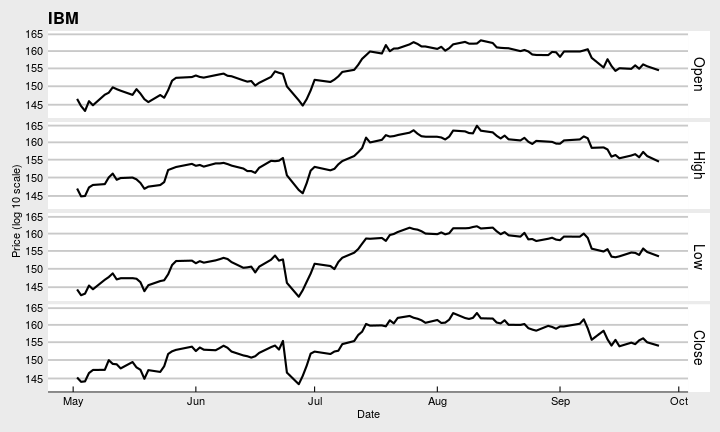
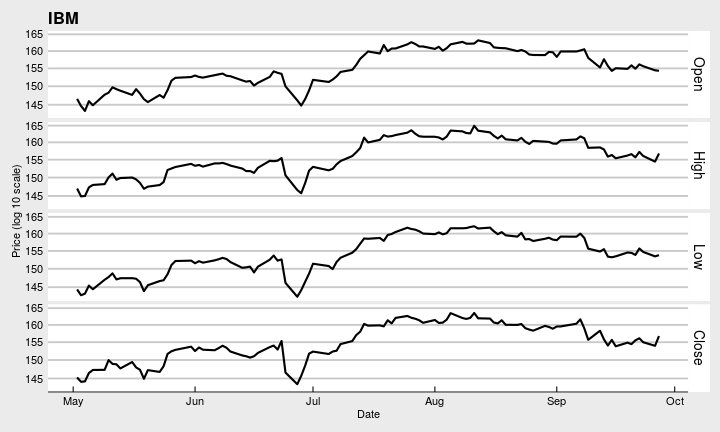
Add images

diff --git a/_posts/2016-09-24-date-wrangling-with-dplyr-and-lubridate.md b/_posts/2016-09-24-date-wrangling-with-dplyr-and-lubridate.md
@@ -4,6 +4,11 @@ title: "Date Wrangling with dplyr and lubridate"
 subtitle: "Converting data.frames to different periods"
 categories: [Solutions]
 tags: [dplyr, lubridate]
+images:
+  - url: /img/posts/table.png
+    alt: Table
+    title: Date Wrangling with dplyr and lubridate
+
 ---
 
 When I'm working with financial time series data, I usually use [xts](http://joshuaulrich.github.io/xts/index.html) objects. I convert the data to a data.frame when I'm ready to plot. Sometimes, I find that I want to adjust the periodicity after I've converted the data to a data.frame and dplyr doesn't have a built in To*Period* function to handle this.
@@ -38,17 +43,17 @@ df %>%
 
 |dt         |         x|         y|         z|
 |:----------|---------:|---------:|---------:|
-|2016-09-30 | 0.0299440| 0.6439789| 0.3108384|
-|2016-10-31 | 0.2269566| 0.5629620| 0.7917520|
-|2016-11-30 | 0.9729924| 0.4588632| 0.4912884|
-|2016-12-31 | 0.1555810| 0.8060579| 0.1892529|
-|2017-01-31 | 0.1473523| 0.0524211| 0.3973115|
-|2017-02-28 | 0.6285712| 0.8631682| 0.7659302|
-|2017-03-31 | 0.0888469| 0.3566318| 0.2459911|
-|2017-04-30 | 0.4924333| 0.3324867| 0.4030350|
-|2017-05-31 | 0.2353066| 0.0338763| 0.5916135|
-|2017-06-30 | 0.8295749| 0.2122948| 0.3502610|
-|2017-07-25 | 0.8999987| 0.3771964| 0.9212028|
+|2016-09-30 | 0.6235581| 0.0192084| 0.9054662|
+|2016-10-31 | 0.9900438| 0.7212066| 0.7177374|
+|2016-11-30 | 0.9845059| 0.4534585| 0.8473448|
+|2016-12-31 | 0.6883763| 0.4490188| 0.1127804|
+|2017-01-31 | 0.0894068| 0.8465638| 0.9787785|
+|2017-02-28 | 0.4509873| 0.8547688| 0.8890504|
+|2017-03-31 | 0.8294377| 0.2704783| 0.9640463|
+|2017-04-30 | 0.3138421| 0.3377105| 0.3576164|
+|2017-05-31 | 0.0488519| 0.9487442| 0.5588787|
+|2017-06-30 | 0.9885419| 0.5312143| 0.3603679|
+|2017-07-25 | 0.4951064| 0.4677851| 0.8758753|
 
 This is a very simple method to create periodicity transformation using dplyr and lubridate. The first function creates a new column that distinctly identifies each month/year that each record belongs to using **ceiling_date**. This could be any interval of time from second to hours to quarters, to years. I can also prefix the unit with an integer to create custom intervals ("5 days").
 
@@ -96,11 +101,11 @@ df %>%
 
 |dt         |         x|         y|         z|
 |:----------|---------:|---------:|---------:|
-|2016-09-30 | 0.0299440| 0.6439789| 0.3108384|
-|2016-12-31 | 0.1555810| 0.8060579| 0.1892529|
-|2017-03-31 | 0.0888469| 0.3566318| 0.2459911|
-|2017-06-30 | 0.8295749| 0.2122948| 0.3502610|
-|2017-07-25 | 0.8999987| 0.3771964| 0.9212028|
+|2016-09-30 | 0.6235581| 0.0192084| 0.9054662|
+|2016-12-31 | 0.6883763| 0.4490188| 0.1127804|
+|2017-03-31 | 0.8294377| 0.2704783| 0.9640463|
+|2017-06-30 | 0.9885419| 0.5312143| 0.3603679|
+|2017-07-25 | 0.4951064| 0.4677851| 0.8758753|
 
 This function is obviously more complicated than the script above, but the **field** parameter adds some challenges. I want my data wrangling functions to follow the dplyr convention of passing expressions as field names. This keeps everything consistent. I use the **deparse** function to convert the expression to a string so that I can access the data. I could use lazyeval for this (which is how dplyr works) but it creates many more complications and unatractive code. There are limitations to deparse but they do not impact this function (see [https://cran.r-project.org/web/packages/lazyeval/vignettes/lazyeval.html]).
 

diff --git a/_posts/2016-09-15-its-time.md b/_posts/2016-09-15-its-time.md
@@ -4,6 +4,10 @@ title: "It's Time!"
 subtitle: ...to ggplot some xts objects.
 categories: [Solutions]
 tags: [xts, ggplot2]
+images:
+  - url: /img/posts/price-chart.png
+    alt: IBM Price Chart
+    title: It's Time!
 ---
  
 
@@ -56,7 +60,7 @@ tail(x.ibm_price_hist_monthly)
 ## 2016-06-30 151.78
 ## 2016-07-29 160.62
 ## 2016-08-31 158.88
-## 2016-09-26 153.98
+## 2016-09-27 156.77
 {% endhighlight %}
 
 To use ggplot with this data, we need to convert it back to a data.frame. This is a fairly simple process, but again, we don't want to continually do it so create a function.
@@ -84,7 +88,7 @@ tail(df.ibm_price_history_monthly)
 ## 138 2016-06-30 151.78
 ## 139 2016-07-29 160.62
 ## 140 2016-08-31 158.88
-## 141 2016-09-26 153.98
+## 141 2016-09-27 156.77
 {% endhighlight %}
 
 
@@ -148,7 +152,7 @@ tail(x.ibm_ohlc_hist_monthly)
 ## 2016-06-30    152.51    155.35   143.50     151.78
 ## 2016-07-29    152.35    162.65   151.68     160.62
 ## 2016-08-31    161.45    163.53   158.32     158.88
-## 2016-09-26    159.54    161.64   153.84     153.98
+## 2016-09-27    159.54    161.64   153.84     156.77
 {% endhighlight %}
 
 
@@ -162,10 +166,10 @@ df.ibm_ohlc_hist_monthly$Direction = ifelse(df.ibm_ohlc_hist_monthly$Data.Close 
 ggplot(df.ibm_ohlc_hist_monthly) +
   geom_linerange(aes(x=Date, ymin=Data.Low, ymax=Data.High), size=.5) +
   geom_rect(aes(xmin = Date - 10, xmax = Date + 10, ymin = Data.Open, ymax = Data.Close, fill=Direction)) + 
-  ggtitle("IBM") + 
+  ggtitle("IBM Price Chart") + 
   ylab("Price (log 10 scale)") +
   scale_y_log10(breaks=pretty(df.ibm_ohlc_hist_monthly$Data.Close)) +
-  theme_economist_white() +
+  theme_economist() +
   theme(legend.position = "none")
 {% endhighlight %}
 

diff --git a/_posts/2016-09-26-i-hate-you-paste.md b/_posts/2016-09-26-i-hate-you-paste.md
@@ -1,13 +1,20 @@
 ---
 layout: post
-title: "I Hate You Paste!"
+title: "I Hate You paste!"
 subtitle: "Don't call me anymore."
 categories: [Solutions]
 tags: [paste, binary operators]
+images:
+  - url: /img/posts/paste.png
+    alt: paste
+    title: I Hate You paste!
 ---
 
 
-I really don't hate the paste command, it is actually quite useful when working with vectors. I just hate using it for simple string concatenation. 
+I really don't hate the paste function, it is actually quite useful when working with vectors. I just hate using it for simple string concatenation. 
+
+{% assign image = page.images[0] %}
+{% include image.html image=image %}
 
 
 {% highlight r %}
